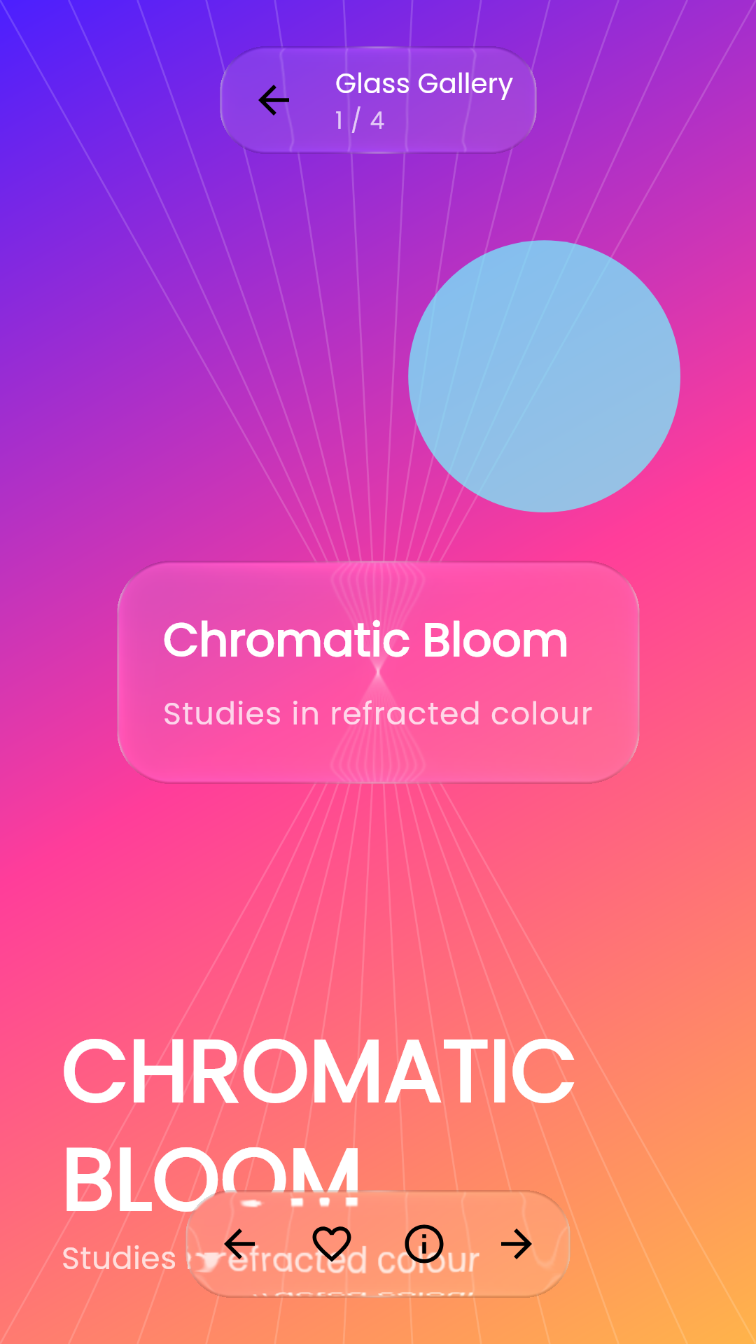
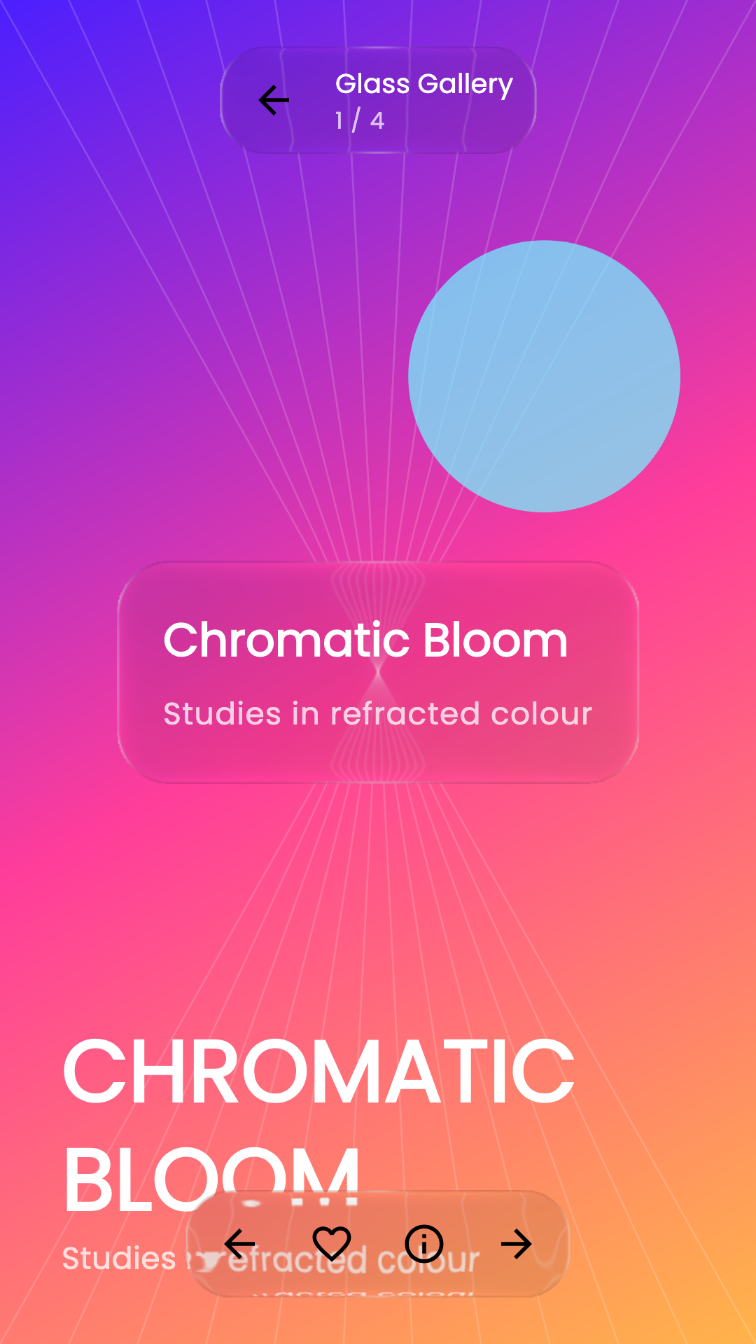
Pin Product screenshot tint and restore original goldens

diff --git a/sample/shared/src/commonMain/kotlin/dev/chrisbanes/haze/sample/GlassProductSample.kt b/sample/shared/src/commonMain/kotlin/dev/chrisbanes/haze/sample/GlassProductSample.kt
@@ -88,13 +88,13 @@ public fun GlassProductSampleContent(
   onRecordingModeChanged: (Boolean) -> Unit,
   onBack: () -> Unit,
   modifier: Modifier = Modifier,
+  isDark: Boolean = androidx.compose.foundation.isSystemInDarkTheme(),
 ) {
   val hazeState = rememberHazeState()
   val pagerState = rememberPagerState(
     initialPage = selectedArtworkIndex,
     pageCount = { GalleryArtworks.size },
   )
-  val isDark = androidx.compose.foundation.isSystemInDarkTheme()
   var informationExpanded by rememberSaveable { mutableStateOf(false) }
 
   LaunchedEffect(selectedArtworkIndex) {
@@ -145,6 +145,7 @@ public fun GlassProductSampleContent(
 
     ProductTopBar(
       hazeState = hazeState,
+      style = productGlassStyle(isDark),
       selectedArtworkIndex = selectedArtworkIndex,
       recordingMode = recordingMode,
       onBack = onBack,
@@ -163,6 +164,7 @@ public fun GlassProductSampleContent(
     )
     ProductActionDock(
       hazeState = hazeState,
+      style = productGlassStyle(isDark),
       favorite = favorite,
       landscape = landscape,
       informationExpanded = informationExpanded,
@@ -195,6 +197,7 @@ private fun GalleryProductDetails(
 @Composable
 private fun ProductTopBar(
   hazeState: HazeState,
+  style: GlassStyle,
   selectedArtworkIndex: Int,
   recordingMode: Boolean,
   onBack: () -> Unit,
@@ -203,7 +206,7 @@ private fun ProductTopBar(
 ) {
   GlassSurface(
     hazeState = hazeState,
-    style = productGlassStyle(androidx.compose.foundation.isSystemInDarkTheme()),
+    style = style,
     shape = androidx.compose.foundation.shape.RoundedCornerShape(24.dp),
     modifier = modifier,
     interactionStyle = GlassStyle {
@@ -290,6 +293,7 @@ private fun ProductMetadataCard(
 @Composable
 private fun ProductActionDock(
   hazeState: HazeState,
+  style: GlassStyle,
   favorite: Boolean,
   landscape: Boolean,
   informationExpanded: Boolean,
@@ -301,7 +305,7 @@ private fun ProductActionDock(
 ) {
   GlassSurface(
     hazeState = hazeState,
-    style = productGlassStyle(androidx.compose.foundation.isSystemInDarkTheme()),
+    style = style,
     shape = androidx.compose.foundation.shape.RoundedCornerShape(24.dp),
     modifier = modifier,
     interactionStyle = GlassStyle {

diff --git a/sample/screenshot-tests/src/jvmTest/kotlin/dev/chrisbanes/haze/GlassGalleryDesktopScreenshotTest.kt b/sample/screenshot-tests/src/jvmTest/kotlin/dev/chrisbanes/haze/GlassGalleryDesktopScreenshotTest.kt
@@ -23,11 +23,11 @@ import org.jetbrains.skia.Canvas
 import org.jetbrains.skia.Paint
 
 class GlassGalleryDesktopScreenshotTest : ScreenshotTest() {
-  @Test fun productPortrait() = runScreenshotTest { captureGlassProductHero() }
+  @Test fun productPortrait() = runScreenshotTest { captureGlassProductHero(isDark = true) }
 
   @Test
   fun productLandscape() = runScreenshotTest(size = Size(1920f, 1080f)) {
-    captureGlassProductHero()
+    captureGlassProductHero(isDark = true)
   }
 
   @Test fun playgroundBeats() = runScreenshotTest { captureGlassPlaygroundBeats() }

diff --git a/sample/screenshot-tests/src/commonTest/kotlin/dev/chrisbanes/haze/GlassGalleryScreenshotAssertions.kt b/sample/screenshot-tests/src/commonTest/kotlin/dev/chrisbanes/haze/GlassGalleryScreenshotAssertions.kt
@@ -28,11 +28,12 @@ import dev.chrisbanes.haze.sample.SamplesTheme
 import dev.chrisbanes.haze.test.ScreenshotTheme
 import dev.chrisbanes.haze.test.ScreenshotUiTest
 
-internal fun ScreenshotUiTest.captureGlassProductHero() {
+internal fun ScreenshotUiTest.captureGlassProductHero(isDark: Boolean) {
   setContent {
     Box(Modifier.fillMaxSize().background(Color.White)) {
       GlassGalleryScreenshotTheme {
         GlassProductSampleContent(
+          isDark = isDark,
           selectedArtworkIndex = 0,
           favorite = false,
           recordingMode = true,

diff --git a/sample/screenshot-tests/src/androidHostTest/kotlin/dev/chrisbanes/haze/GlassGalleryPortraitAndroidScreenshotTest.kt b/sample/screenshot-tests/src/androidHostTest/kotlin/dev/chrisbanes/haze/GlassGalleryPortraitAndroidScreenshotTest.kt
@@ -10,7 +10,7 @@ import org.robolectric.annotation.Config
 
 @Config(sdk = [35])
 class GlassGalleryPortraitAndroidScreenshotTest : ScreenshotTest() {
-  @Test fun productHero() = runScreenshotTest { captureGlassProductHero() }
+  @Test fun productHero() = runScreenshotTest { captureGlassProductHero(isDark = false) }
 
   @Test fun playgroundBeats() = runScreenshotTest { captureGlassPlaygroundBeats() }
 

diff --git a/sample/screenshot-tests/src/androidHostTest/kotlin/dev/chrisbanes/haze/GlassGalleryLandscapeAndroidScreenshotTest.kt b/sample/screenshot-tests/src/androidHostTest/kotlin/dev/chrisbanes/haze/GlassGalleryLandscapeAndroidScreenshotTest.kt
@@ -10,5 +10,5 @@ import org.robolectric.annotation.Config
 
 @Config(sdk = [35], qualifiers = "+land")
 class GlassGalleryLandscapeAndroidScreenshotTest : ScreenshotTest() {
-  @Test fun productHero() = runScreenshotTest { captureGlassProductHero() }
+  @Test fun productHero() = runScreenshotTest { captureGlassProductHero(isDark = false) }
 }
